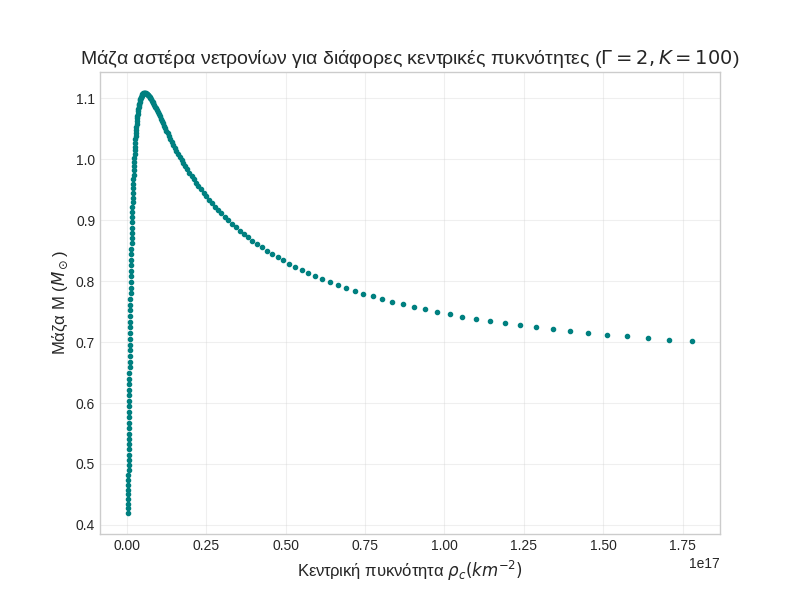
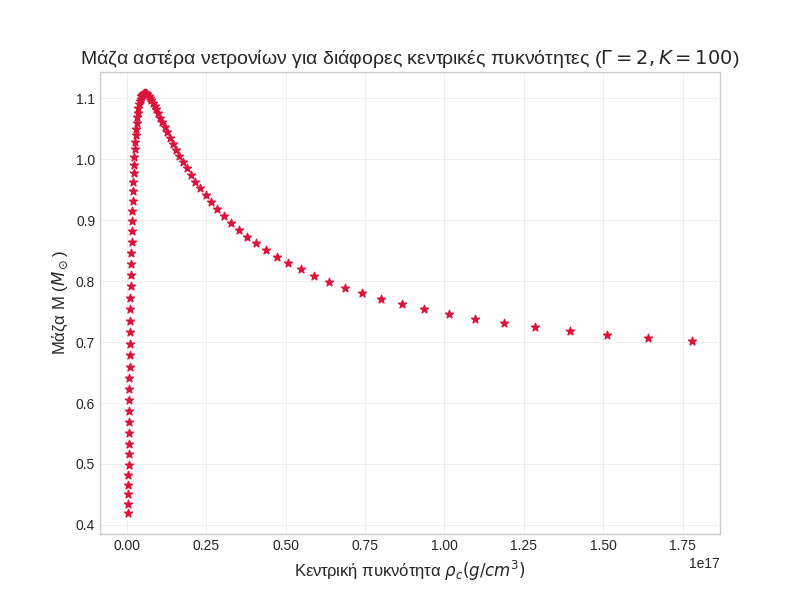
Updating and formating the plots

diff --git a/solvers/background.py b/solvers/background.py
@@ -99,7 +99,7 @@ def real_eos(t):
 
     Reproduces the classic Oppenheimer-Volkoff free-neutron-gas EOS given in
     parametric form via an auxiliary variable t (related to the neutron
-    Fermi momentum), rather than as a closed-form rho(P):
+    Fermi momentum), rather than as a closed-form rho(P):git s
         rho(t) = K * (sinh(t) - t)
         P(t)   = (K/3) * (sinh(t) - 8*sinh(t/2) + 3*t)
     with K=4.251e-4 in geometrized units. Used together with interp1d (see

diff --git a/solvers/shooting_gr.py b/solvers/shooting_gr.py
@@ -1,0 +1,16 @@
+import numpy as np
+from scipy.integrate import solve_ivp 
+from scipy.optimize import brentq
+from scipy.integrate import simpson
+import numpy as np
+
+def pulsation_system(r,y,P_fun,W_fun,Q_fun, omega2):
+    P = P_fun(r)
+    W = W_fun(r)
+    Q = Q_fun(r)
+
+    zeta,eta = y 
+    dzeta_dr = eta/P 
+    deta_dr = -(omega2*W + Q)*zeta
+
+    return [dzeta_dr,deta_dr]

diff --git a/solvers/shooting.py b/solvers/shooting.py
@@ -260,9 +260,3 @@ def rayleigh_quotient(x, y1, y2, P_func, Q_func, W_func):
     W = W_func(x)
 
     return (simpson(y=P*y2**2 + Q*y1**2, x=x))/(simpson(y=W*y1**2, x=x))
-
-
-    #GENERAL RELATIVISTIC CASE
-    #DEFINE THE PULSATION SYSTEM USING THE FORM FROM MTW 
-
-    
